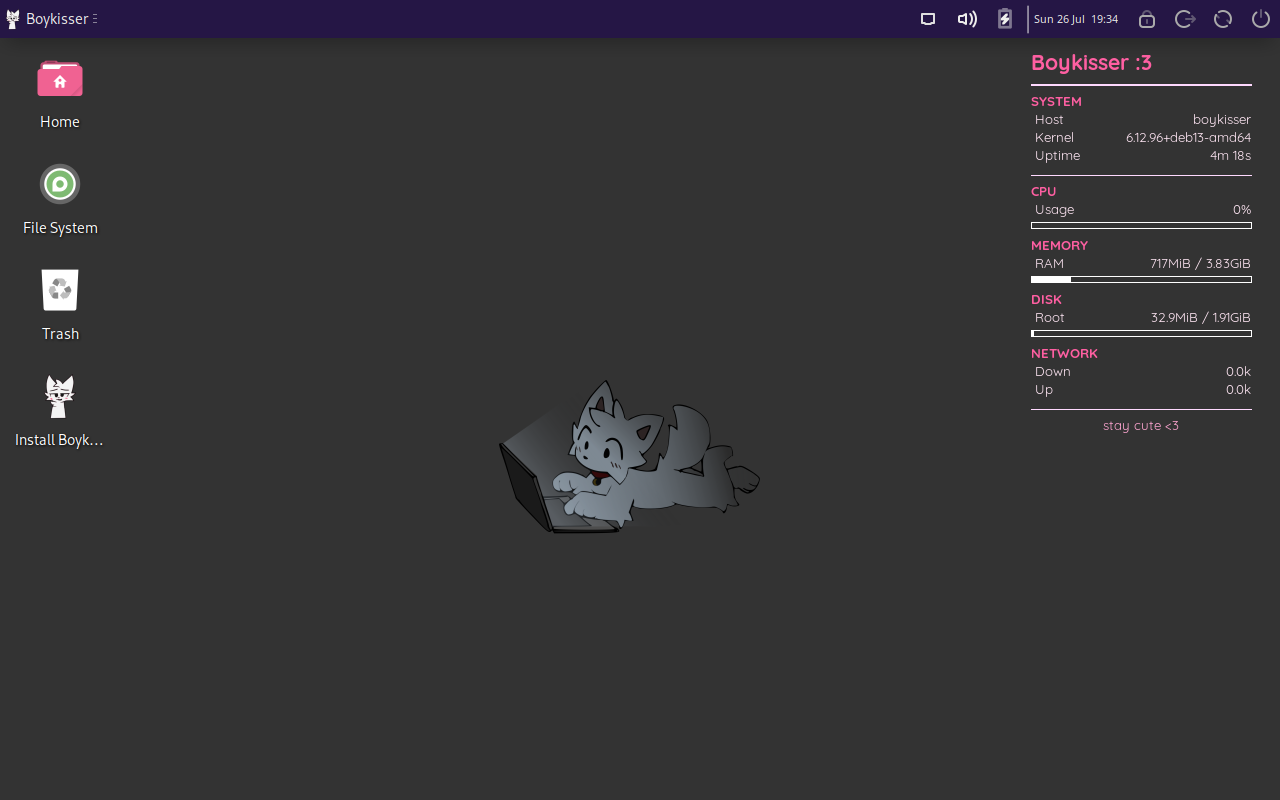
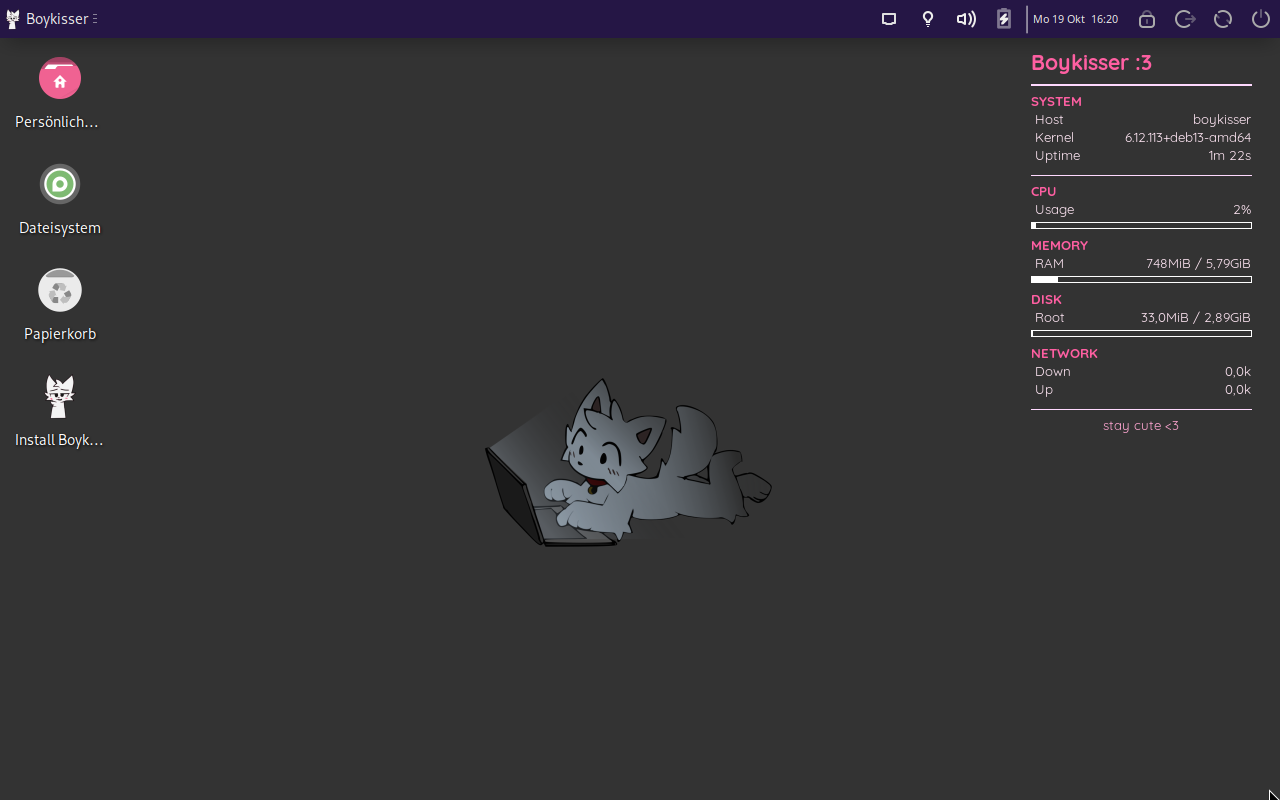
docs(web): real screenshots from the VM, notes for older installs
Desktop, Plasma, Boykisser Center, installer and boot menu are now captured
from the current build. Troubleshooting covers the leaked live account and the
skipped installer steps on older ISOs; live credentials are now live/live.

diff --git a/web/src/content/docs/docs/troubleshooting.md b/web/src/content/docs/docs/troubleshooting.md
@@ -13,7 +13,7 @@ First step for anything: run `boykisser doctor`. It points at most problems on i
 
 **Black screen or frozen splash.** Pick **Live system (failsafe)** in the boot menu. If that works, your GPU needs `nomodeset`: on an installed system press <kbd>e</kbd> at the boot menu, add `nomodeset` to the `linux` line and boot with <kbd>F10</kbd>.
 
-**A login screen appears in the live session.** User `user`, password `live`.
+**A login screen appears in the live session.** User `live`, password `live`.
 
 ## Installer
 
@@ -40,6 +40,13 @@ sudo apt install kde-plasma-desktop   # then pick Plasma on the login screen
 **A Flatpak app can't see my files.** Open **Flatseal**, pick the app and allow the folder under **Filesystem**.
 
 **An update broke something.** If Timeshift is set up: open it, pick the snapshot from before `boykisser update`, and **Restore**. If the desktop doesn't start any more, boot the live stick and run Timeshift from there.
+
+## Installed from an older ISO?
+
+Images built before October 2026 had installer bugs that never surfaced as errors:
+
+- **The live account stayed on the installed system.** It's called `user`, its password is the public `live`, and it can use `sudo`. `boykisser update` (tools 2.0 or newer) locks it automatically if the password is still `live`. To check by hand: `sudo passwd -S user`. To remove it for good: `sudo deluser --remove-home user`.
+- **Picking KDE or app bundles in the installer did nothing**, and the live packages weren't removed (so automatic security updates stayed off). Install what you wanted afterwards (`sudo apt install kde-plasma-desktop`), then run `sudo boykisser-live-cleanup /` once to finish the cleanup.
 
 ## Reporting a bug
 

diff --git a/web/src/content/docs/docs/building.md b/web/src/content/docs/docs/building.md
@@ -41,7 +41,9 @@ A full build takes 20 to 40 minutes the first time. Downloaded packages are cach
 ./test-vm.sh --installed   # boot what you installed on that disk
 ```
 
-It needs QEMU, and OVMF for UEFI. KVM is used when available.
+It needs QEMU, and OVMF for UEFI. KVM is used when available. If your distro packages QEMU's GTK window and virtio GPU separately (Arch: `qemu-ui-gtk`, `qemu-hw-display-virtio-vga`), the script falls back to plain VGA and a VNC display on `127.0.0.1:5900`.
+
+The build needs real root (debootstrap creates device nodes), so with podman run it as root, e.g. `sudo ./build.sh` or `ENGINE="sudo podman" ./build.sh`.
 
 ## Change the tools
 

diff --git a/web/src/content/docs/docs/getting-started.md b/web/src/content/docs/docs/getting-started.md
@@ -52,7 +52,7 @@ If the stick doesn't show up in the boot menu or refuses to start, turn Secure B
 
 ## 4. Look around
 
-The live session logs in by itself and runs entirely in RAM. Nothing you do touches your disk, and it all disappears when you reboot. If a login screen ever shows up, the user is `user` and the password is `live`.
+The live session logs in by itself and runs entirely in RAM. Nothing you do touches your disk, and it all disappears when you reboot. If a login screen ever shows up, the user is `live` and the password is `live`.
 
 A welcome window opens with a small checklist. Good things to try:
 
